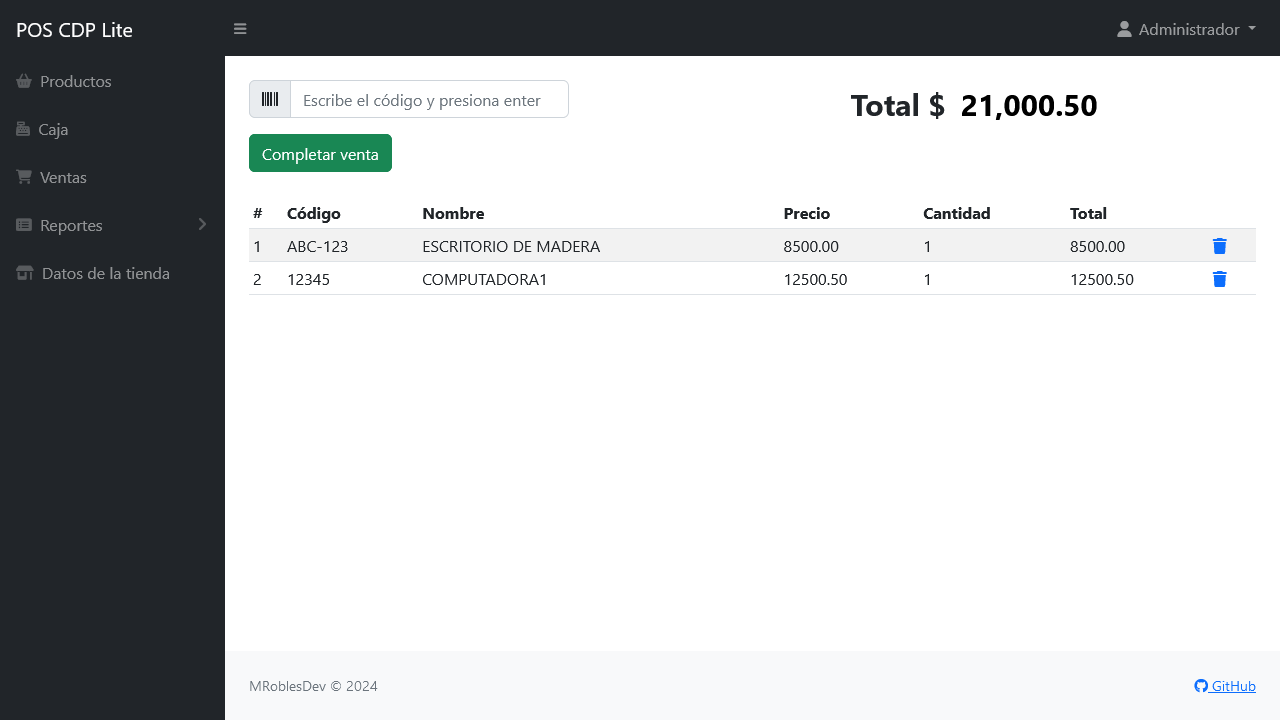
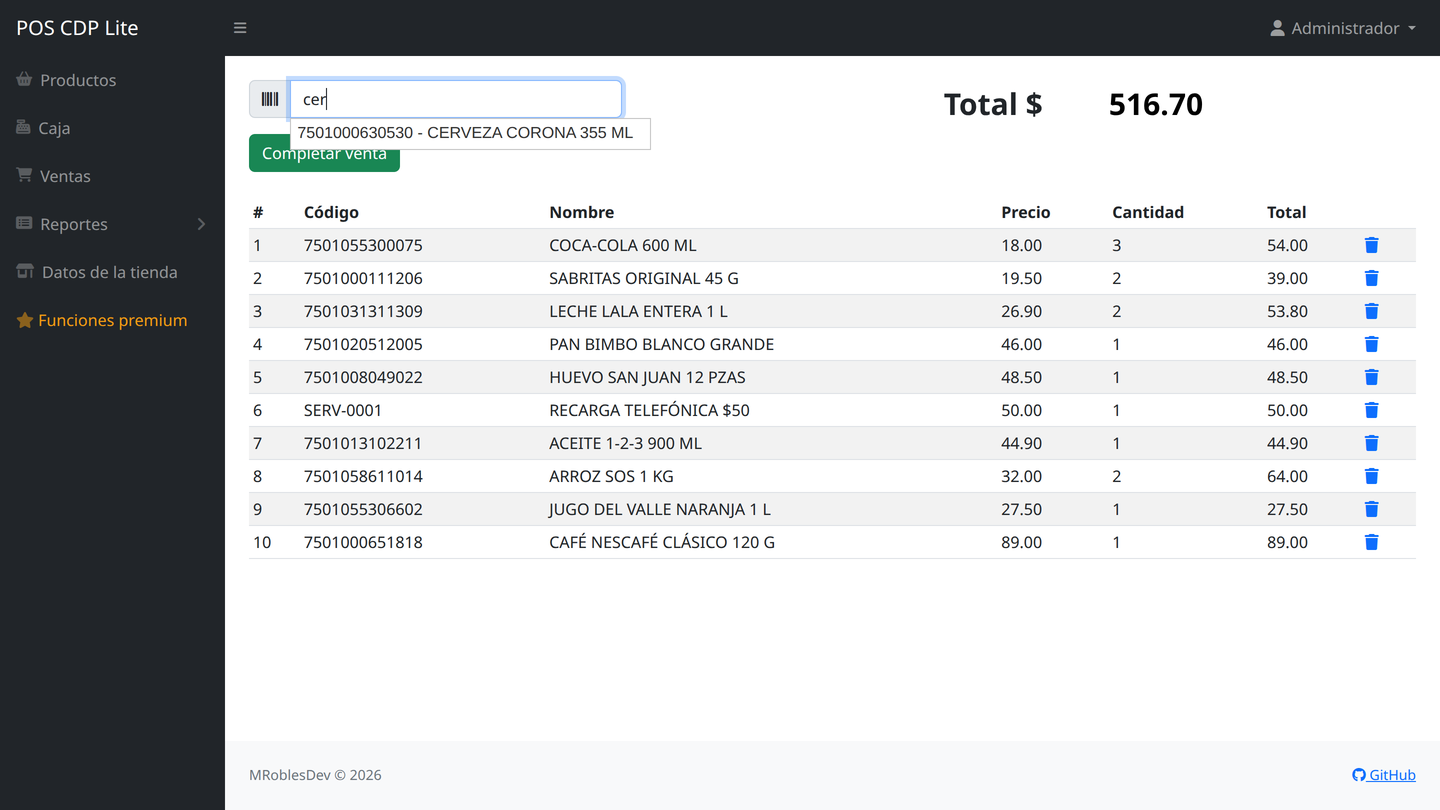
Actualización de README

diff --git a/README.md b/README.md
@@ -1,6 +1,44 @@
 # Sistema de Punto de Venta CDP Lite
 
+![Licencia MIT](https://img.shields.io/badge/licencia-MIT-green)
+![PHP 8.1+](https://img.shields.io/badge/PHP-8.1%2B-777BB4?logo=php&logoColor=white)
+![CodeIgniter 4](https://img.shields.io/badge/CodeIgniter-4-EF4223?logo=codeigniter&logoColor=white)
+
 El sistema de punto de venta CDP Lite es una aplicación web de código abierto basada en PHP y MySQL para gestionar las ventas en tu tienda. Este proyecto fue desarrollado utilizando CodeIgniter 4.
+
+🔎 **Pruébalo en línea:** https://pos-lite.sistemarv.com
+
+## Capturas de pantalla
+
+| | |
+| --- | --- |
+| ![Inicio de sesión](public/images/capturas/1-Login.jpg)<br>**Inicio de sesión** | ![Dashboard](public/images/capturas/2-Dashboard.png)<br>**Dashboard** |
+| ![Caja](public/images/capturas/3-Caja.png)<br>**Caja de cobro** | ![Ticket](public/images/capturas/4-Ticket.png)<br>**Ticket de venta** |
+| ![Productos](public/images/capturas/5-Productos.png)<br>**Catálogo de productos** | ![Reporte](public/images/capturas/6-Reporte.png)<br>**Reportes** |
+
+## Características versión 1.1.5
+
+- Acceso por credenciales
+- Dashboard
+  - Ventas del día y del mes
+  - Gráfica de ventas de los últimos 7 días
+  - Productos más vendidos
+  - Aviso de productos con poco stock
+- Catálogo de productos
+  - Productos con o sin control de inventario
+  - Búsqueda por código de barras o nombre con autocompletado
+- Caja de cobro
+  - Control de existencias: se descuentan al vender y se restituyen al cancelar
+- Generación de ticket
+- Historial de ventas
+  - Reimpresión de ticket
+  - Cancelar ventas
+- Reportes
+  - Ventas
+  - Productos
+- Configuración del sistema
+  - Datos de la tienda, leyenda del ticket y folio de ventas
+  - Cambio de contraseña
 
 ### 🚀 ¿Buscas más funcionalidades?
 
@@ -66,6 +104,15 @@ database.default.password = password
 database.default.DBDriver = MySQLi
 ```
 
+- Si vas a usar el sistema en un servidor de producción, descomenta y establece también `CI_ENVIRONMENT = production` en el `.env`. En el modo `development` se muestran errores detallados y la barra de depuración.
+
+- Asegúrate de que el servidor web pueda escribir en la carpeta `writable/` (sesiones, caché y registros). Si ves errores de permisos al iniciar sesión, ejecuta (ajusta el usuario según tu servidor, por ejemplo `www-data` en Debian/Ubuntu):
+
+```sh-session
+$ sudo chown -R www-data:www-data writable
+$ sudo chmod -R 775 writable
+```
+
 ### 3. Ejecutar migraciones y seeders:
 ```
 php spark migrate
@@ -77,13 +124,20 @@ Al importar el archivo SQL, se crearán las tablas necesarias y se cargarán los
 
 
 ### 4. Ejecutar la aplicación:
+
+#### Servidor integrado
+
 ```
 php spark serve
-``` 
+```
 
-Esto iniciará el servidor en http://localhost:8080 por defecto.
+Esto iniciará el servidor en http://localhost:8080 por defecto. Recuerda ajustar `app.baseURL` en el `.env` a esa dirección.
 
-O en Apache Server con al dirección http://localhost/pos-cdp-lite/public
+#### Apache Server
+
+Con Apache, abre la dirección de la carpeta `public`, por ejemplo http://localhost/pos-cdp-lite/public
+
+### 5. Iniciar sesión
 
 **Datos de acceso**
 
@@ -91,31 +145,7 @@ O en Apache Server con al dirección http://localhost/pos-cdp-lite/public
 
 - **Contraseña:** admin
 
-## Características versión 1.1.3
-
-- Acceso por credenciales
-- Catalogo de productos
-- Caja de cobro
-- Generación de ticket
-- Historial de ventas
-  - Reimpresión de ticket
-  - Cancelar ventas
-- Reportes
-  - Ventas
-  - Productos
-- Configuración del sistema
-
-## Demostración
-
-Para acceder a nuestra demostración y explorar todas las funcionalidades del Punto de Venta CDP Lite, por favor visita https://pos-lite.sistemarv.com
-
-
-## Capturas de pantalla
-
-| ![Inicio de sesión](public/images/capturas/1-Login.png)  |  ![Dashboard](public/images/capturas/2-Dasdboard.png)
-| --- | --- |
-| ![Caja](public/images/capturas/3-Caja.png)  |  ![Ticket](public/images/capturas/4-Ticket.png)
-| ![Productos](public/images/capturas/5-Productos.png)  |  ![Reporte](public/images/capturas/6-Reporte.png)
+> ⚠ **Cambia la contraseña después de tu primer acceso** desde el menú del usuario (*Cambiar contraseña*), sobre todo si el sistema estará disponible en internet.
 
 ## Contribuciones
 
